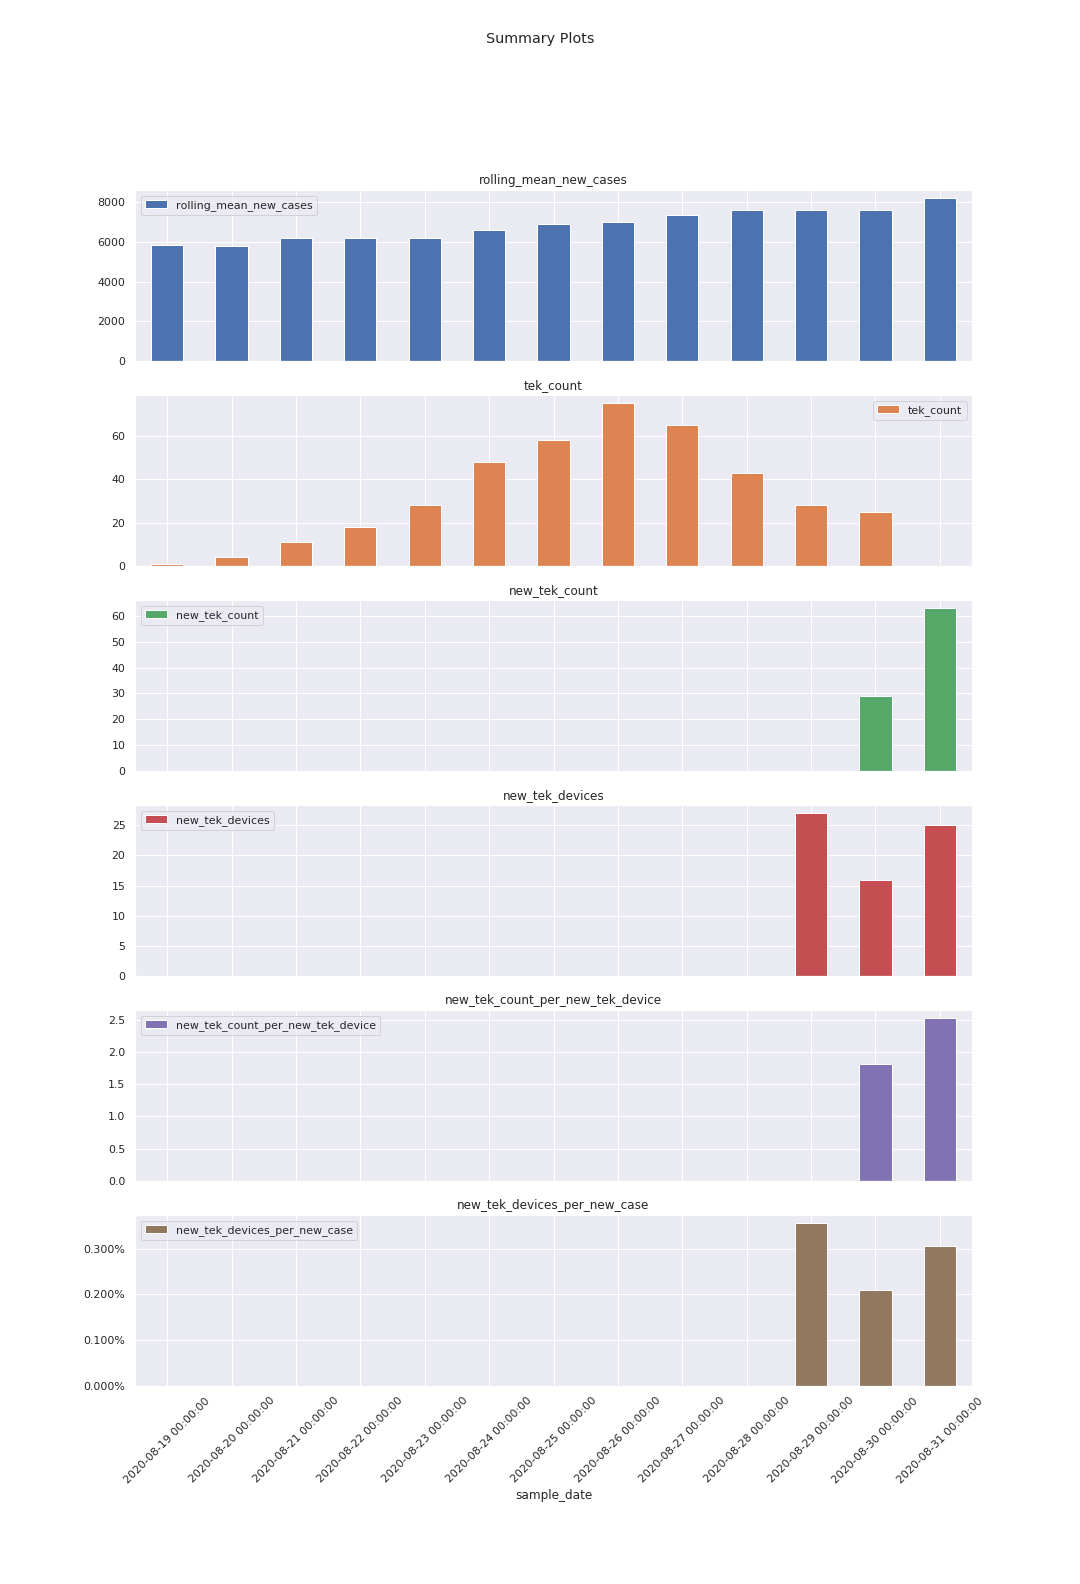
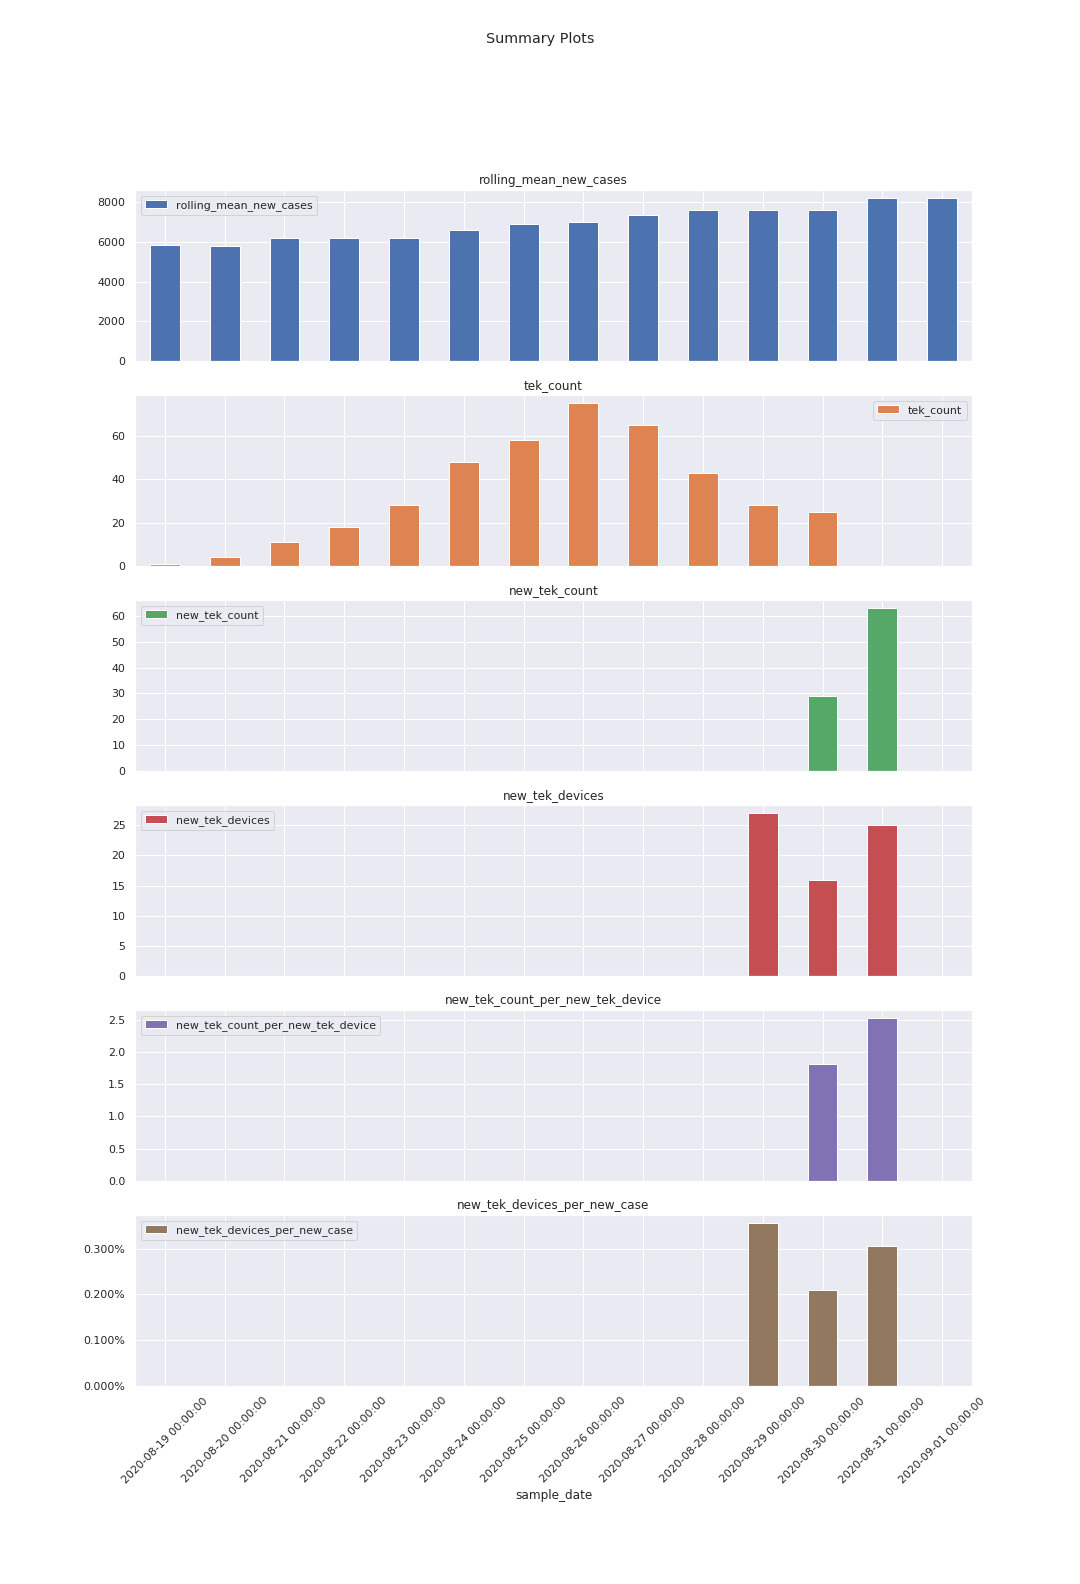
[RadarCOVID-Report] Updated Report

Changed region(s): [[0.1833, 0.1237, 0.8861, 0.7424], [0.1222, 0.7734, 0.9167, 0.928]]

diff --git a/Data/Resources/Current/RadarCOVID-Report-Summary-Table.html b/Data/Resources/Current/RadarCOVID-Report-Summary-Table.html
@@ -27,10 +27,22 @@
   </thead>
   <tbody>
     <tr>
+      <th>2020-09-01</th>
+      <td>NaN</td>
+      <td>0.0</td>
+      <td>8203.142857</td>
+      <td>8203.142857</td>
+      <td>NaN</td>
+      <td>0.000000</td>
+      <td>NaN</td>
+      <td>NaN</td>
+      <td>NaN</td>
+    </tr>
+    <tr>
       <th>2020-08-31</th>
       <td>NaN</td>
       <td>63.0</td>
-      <td>23572.0</td>
+      <td>23572.000000</td>
       <td>8203.142857</td>
       <td>NaN</td>
       <td>0.007680</td>
@@ -42,7 +54,7 @@
       <th>2020-08-30</th>
       <td>25.0</td>
       <td>29.0</td>
-      <td>0.0</td>
+      <td>0.000000</td>
       <td>7604.571429</td>
       <td>0.003287</td>
       <td>0.003813</td>
@@ -54,7 +66,7 @@
       <th>2020-08-29</th>
       <td>28.0</td>
       <td>NaN</td>
-      <td>0.0</td>
+      <td>0.000000</td>
       <td>7604.571429</td>
       <td>0.003682</td>
       <td>NaN</td>
@@ -66,7 +78,7 @@
       <th>2020-08-28</th>
       <td>43.0</td>
       <td>NaN</td>
-      <td>9779.0</td>
+      <td>9779.000000</td>
       <td>7604.571429</td>
       <td>0.005654</td>
       <td>NaN</td>
@@ -78,7 +90,7 @@
       <th>2020-08-27</th>
       <td>65.0</td>
       <td>NaN</td>
-      <td>9658.0</td>
+      <td>9658.000000</td>
       <td>7371.571429</td>
       <td>0.008818</td>
       <td>NaN</td>
@@ -90,7 +102,7 @@
       <th>2020-08-26</th>
       <td>75.0</td>
       <td>NaN</td>
-      <td>7296.0</td>
+      <td>7296.000000</td>
       <td>6997.428571</td>
       <td>0.010718</td>
       <td>NaN</td>
@@ -102,7 +114,7 @@
       <th>2020-08-25</th>
       <td>58.0</td>
       <td>NaN</td>
-      <td>7117.0</td>
+      <td>7117.000000</td>
       <td>6908.142857</td>
       <td>0.008396</td>
       <td>NaN</td>
@@ -114,7 +126,7 @@
       <th>2020-08-24</th>
       <td>48.0</td>
       <td>NaN</td>
-      <td>19382.0</td>
+      <td>19382.000000</td>
       <td>6622.000000</td>
       <td>0.007249</td>
       <td>NaN</td>
@@ -126,7 +138,7 @@
       <th>2020-08-23</th>
       <td>28.0</td>
       <td>NaN</td>
-      <td>0.0</td>
+      <td>0.000000</td>
       <td>6177.285714</td>
       <td>0.004533</td>
       <td>NaN</td>
@@ -138,7 +150,7 @@
       <th>2020-08-22</th>
       <td>18.0</td>
       <td>NaN</td>
-      <td>0.0</td>
+      <td>0.000000</td>
       <td>6177.285714</td>
       <td>0.002914</td>
       <td>NaN</td>
@@ -150,7 +162,7 @@
       <th>2020-08-21</th>
       <td>11.0</td>
       <td>NaN</td>
-      <td>8148.0</td>
+      <td>8148.000000</td>
       <td>6177.285714</td>
       <td>0.001781</td>
       <td>NaN</td>
@@ -162,7 +174,7 @@
       <th>2020-08-20</th>
       <td>4.0</td>
       <td>NaN</td>
-      <td>7039.0</td>
+      <td>7039.000000</td>
       <td>5796.000000</td>
       <td>0.000690</td>
       <td>NaN</td>
@@ -174,7 +186,7 @@
       <th>2020-08-19</th>
       <td>1.0</td>
       <td>NaN</td>
-      <td>6671.0</td>
+      <td>6671.000000</td>
       <td>5869.000000</td>
       <td>0.000170</td>
       <td>NaN</td>
